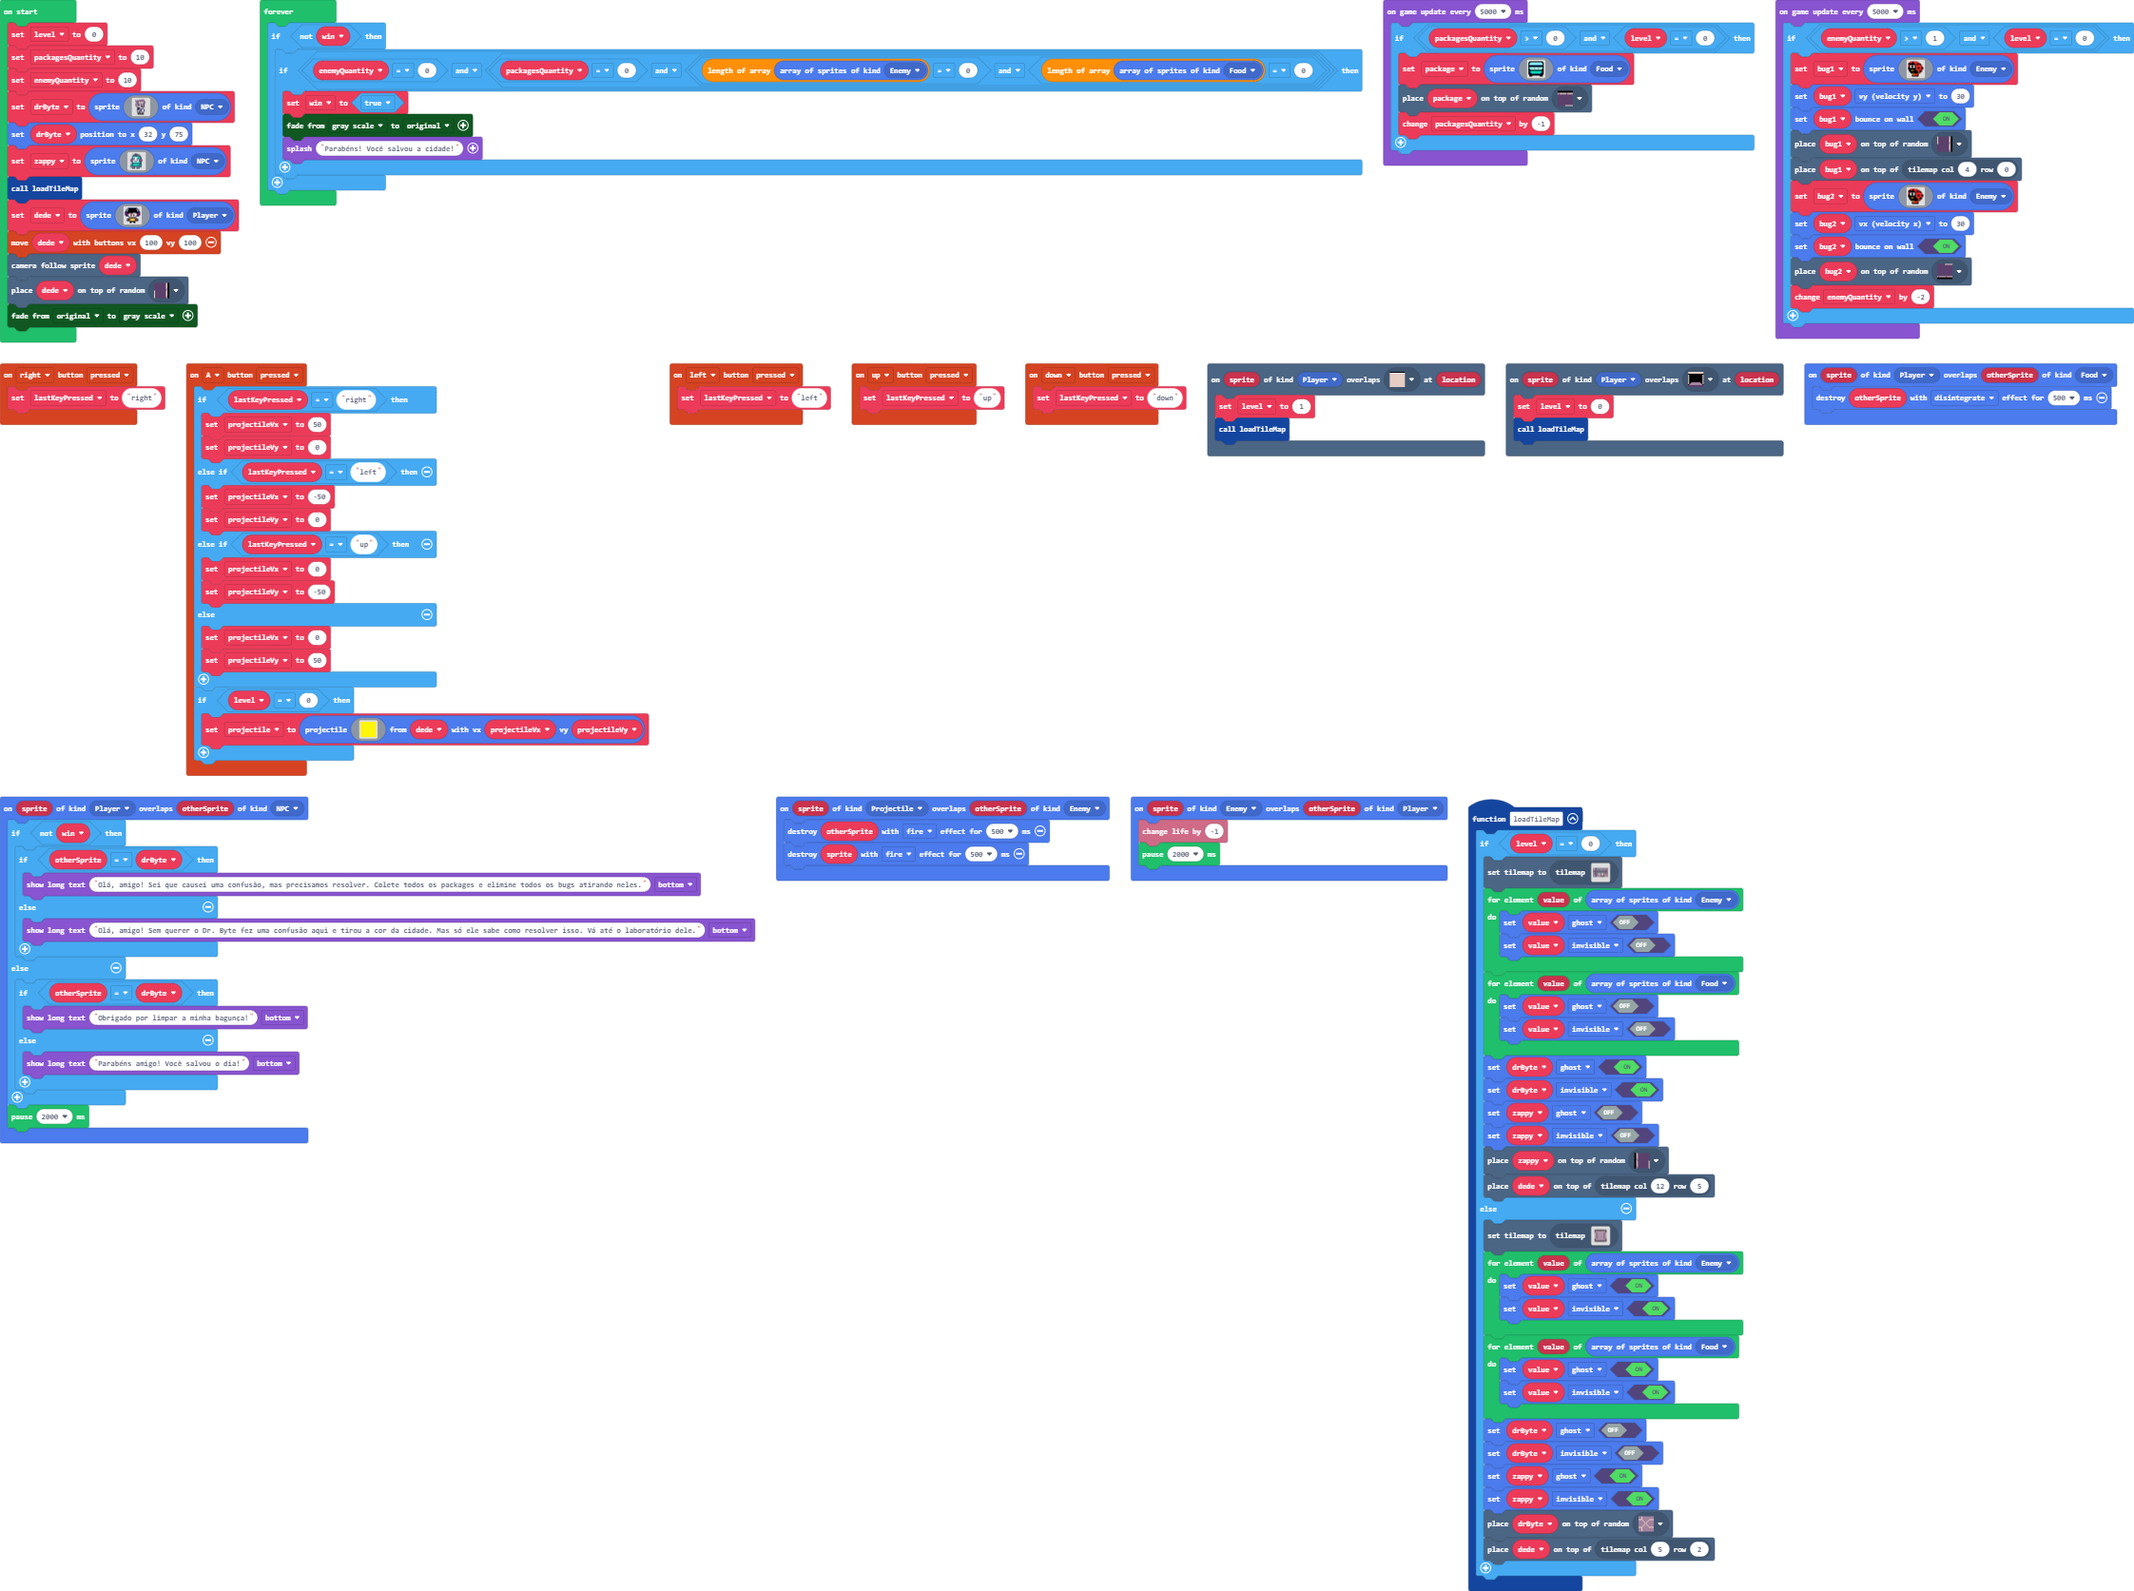
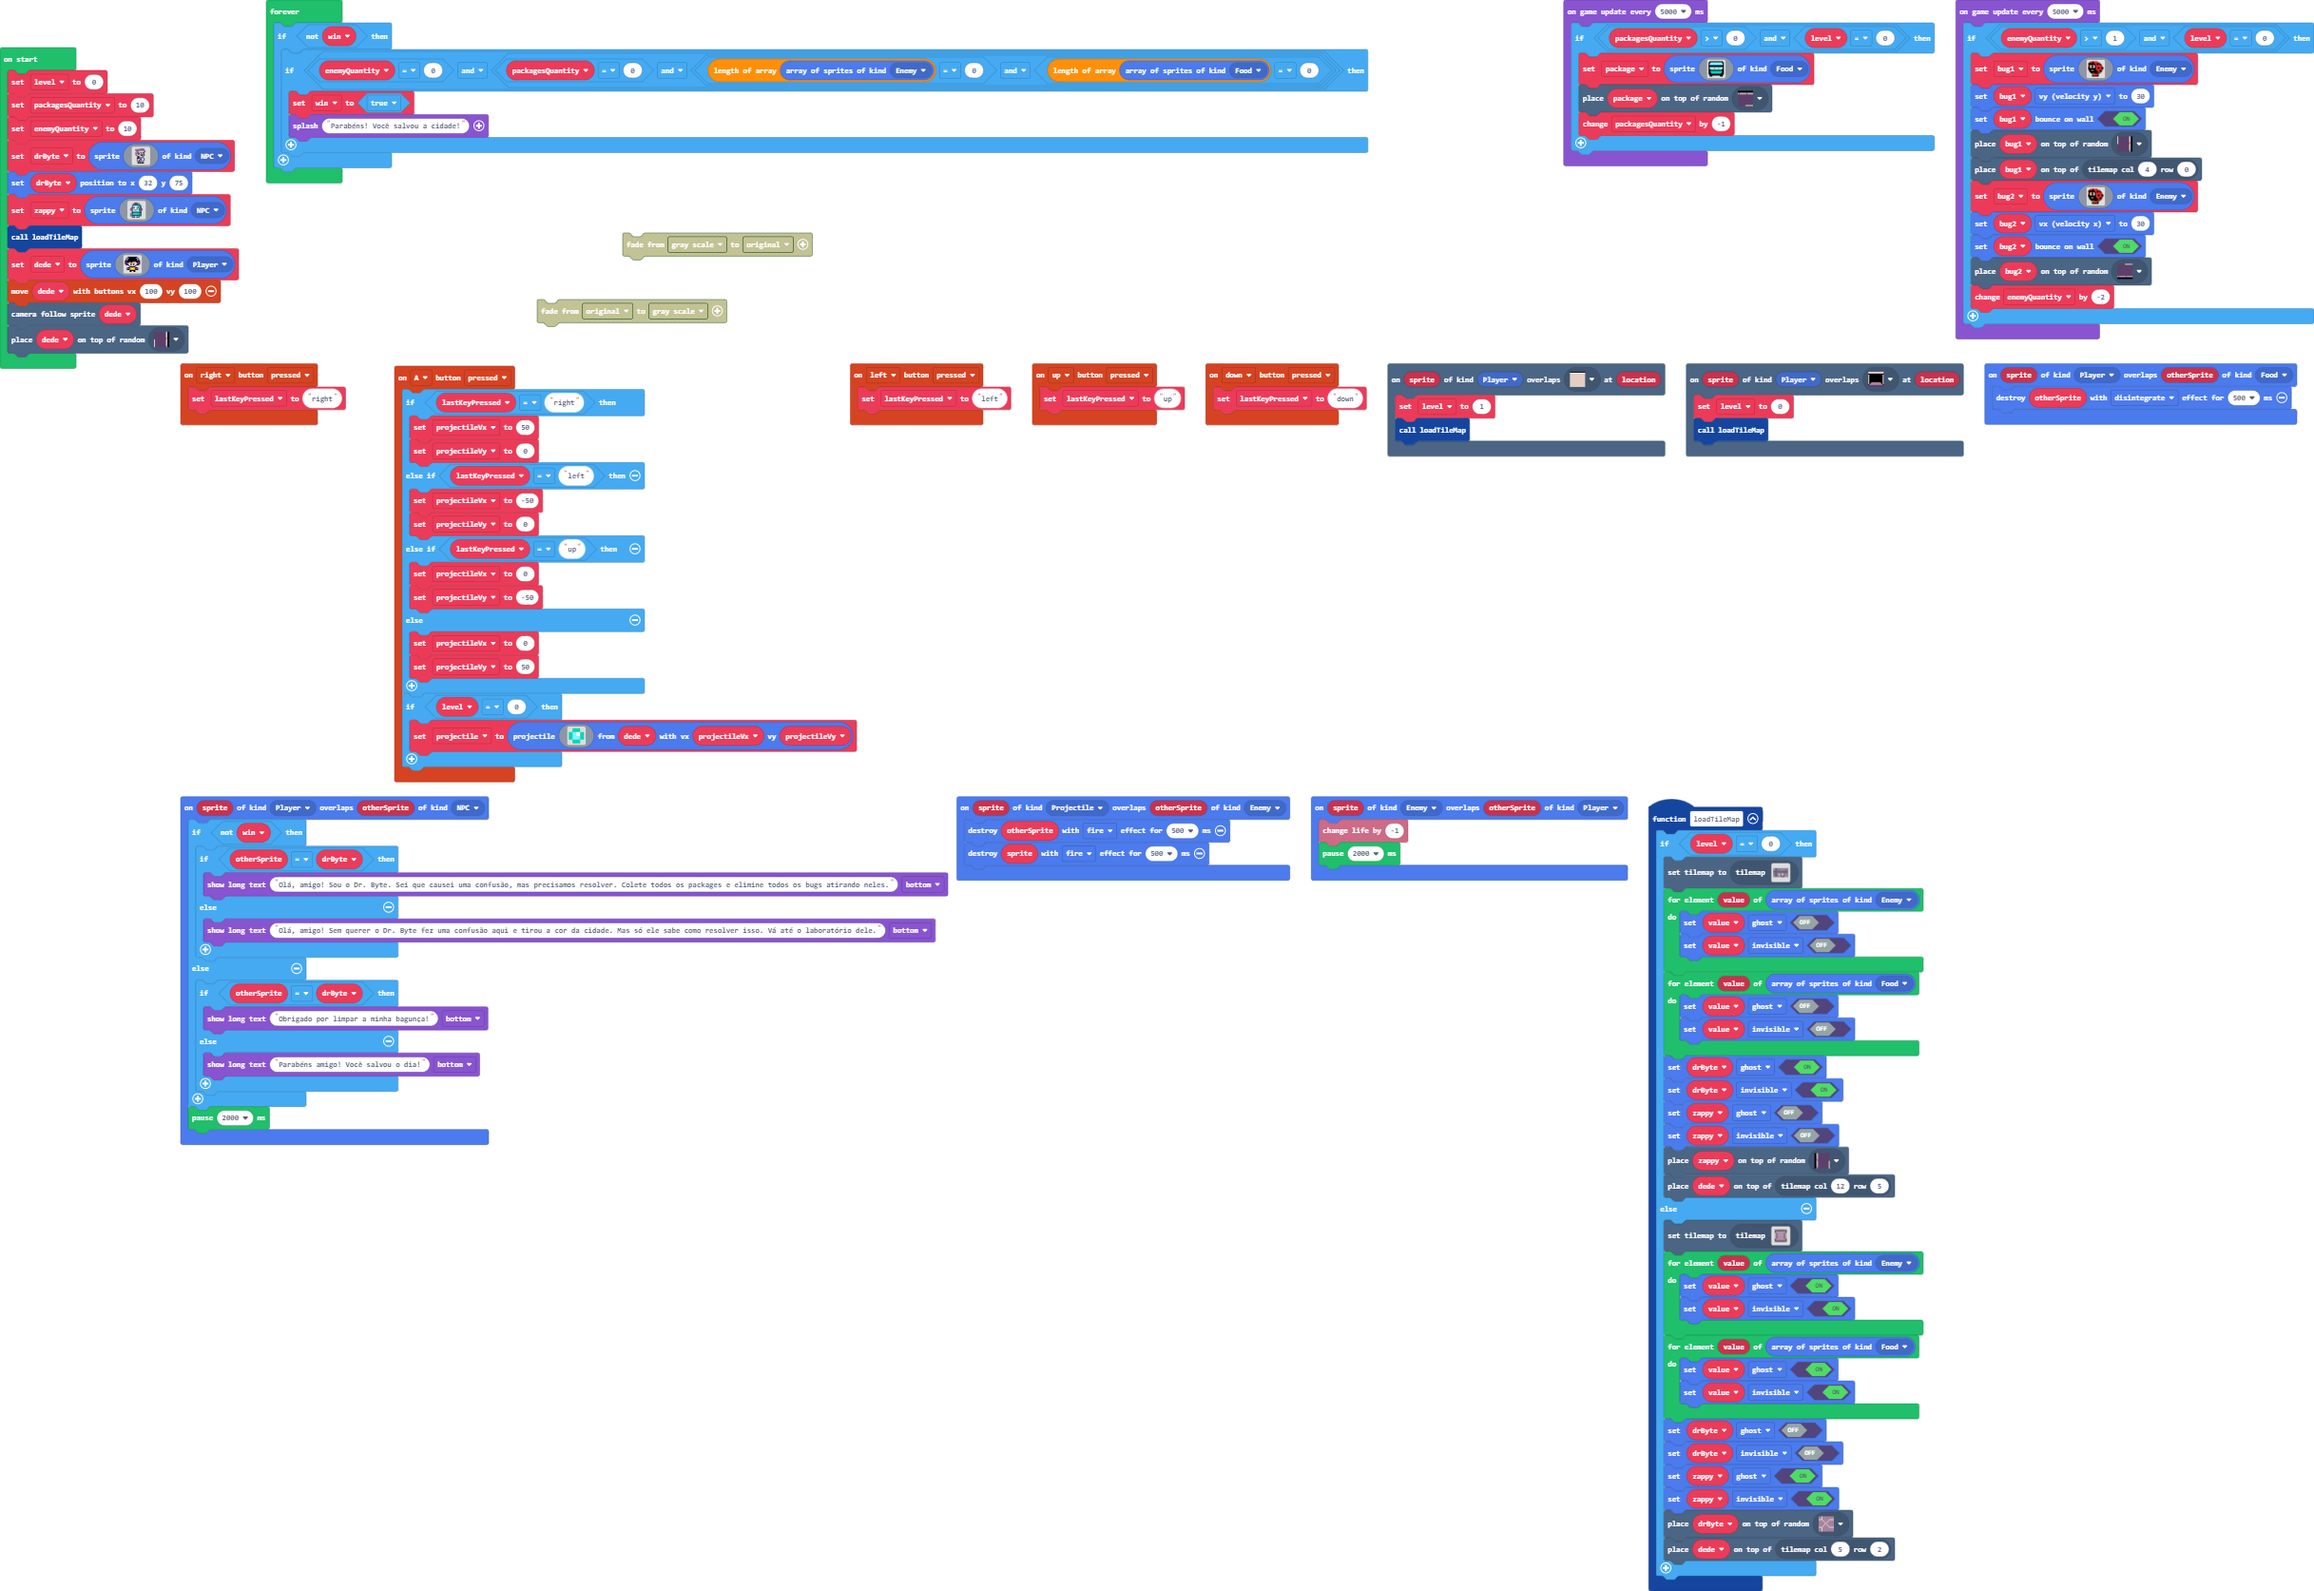
Update main.blocks, main.ts, images.g.jres, images.g.ts, tilemap.g.jres, tilemap.g.ts

Changed region(s): [[0.0, 0.0, 0.9982, 1.0]]

diff --git a/tilemap.g.ts b/tilemap.g.ts
@@ -166,6 +166,8 @@ namespace myTiles {
     export const tile83 = image.ofBuffer(hex``);
     //% fixedInstance jres blockIdentity=images._tile
     export const tile79 = image.ofBuffer(hex``);
+    //% fixedInstance jres blockIdentity=images._tile
+    export const tile81 = image.ofBuffer(hex``);
 
     helpers._registerFactory("tilemap", function(name: string) {
         switch(helpers.stringTrim(name)) {
@@ -214,6 +216,44 @@ namespace myTiles {
 2 2 2 . . 2 2 2 2 2 2 2 2 2 2 2 2 2 2 2 
 2 2 2 . . 2 2 2 2 2 2 2 2 2 2 2 2 2 2 2 
 `, [myTiles.transparency16,myTiles.tile1,myTiles.tile3,myTiles.tile4,myTiles.tile5,myTiles.tile6,myTiles.tile7,myTiles.tile8,myTiles.tile9,myTiles.tile10,myTiles.tile22,myTiles.tile23,myTiles.tile24,myTiles.tile25,myTiles.tile27,myTiles.tile28,myTiles.tile21,myTiles.tile26,myTiles.tile29,myTiles.tile32,myTiles.tile33,myTiles.tile34,myTiles.tile35,myTiles.tile36,myTiles.tile38,myTiles.tile39,myTiles.tile40,myTiles.tile41,myTiles.tile42,myTiles.tile43,myTiles.tile44,myTiles.tile45,myTiles.tile46,myTiles.tile47,myTiles.tile48,myTiles.tile2,myTiles.tile18,myTiles.tile30,myTiles.tile49,myTiles.tile50,myTiles.tile52,myTiles.tile53,myTiles.tile54,myTiles.tile55,myTiles.tile56,myTiles.tile57,myTiles.tile58,myTiles.tile59,myTiles.tile60,myTiles.tile61,myTiles.tile62,myTiles.tile31,myTiles.tile37,myTiles.tile63,myTiles.tile64,myTiles.tile65,myTiles.tile66,myTiles.tile67,myTiles.tile68], TileScale.Sixteen);
+            case "level4":
+            case "level4":return tiles.createTilemap(hex`1000100000000000000000000000000000000000000000000000000000000000000000000000000000000000000000000000000000000000000000000000000000000000000000000000000000000000000000000000000000000000000000000000000000000000000000000000000000000000000000000000000000000000000000000000000000000000000000000000000000000000000000000000000000000000000000000000000000000000000000000000000000000000000000000000000000000000000000000000000000000000000000000000000000000000000000000000000000000000000000000000000000000000000000000000000000000000`, img`
+. . . . . . . . . . . . . . . . 
+. . . . . . . . . . . . . . . . 
+. . . . . . . . . . . . . . . . 
+. . . . . . . . . . . . . . . . 
+. . . . . . . . . . . . . . . . 
+. . . . . . . . . . . . . . . . 
+. . . . . . . . . . . . . . . . 
+. . . . . . . . . . . . . . . . 
+. . . . . . . . . . . . . . . . 
+. . . . . . . . . . . . . . . . 
+. . . . . . . . . . . . . . . . 
+. . . . . . . . . . . . . . . . 
+. . . . . . . . . . . . . . . . 
+. . . . . . . . . . . . . . . . 
+. . . . . . . . . . . . . . . . 
+. . . . . . . . . . . . . . . . 
+`, [myTiles.transparency16], TileScale.Sixteen);
+            case "level5":
+            case "level5":return tiles.createTilemap(hex`1000100000000000000000000000000000000000000000000000000000000000000000000000000000000000000000000000000000000000000000000000000000000000000000000000000000000000000000000000000000000000000000000000000000000000000000000000000000000000000000000000000000000000000000000000000000000000000000000000000000000000000000000000000000000000000000000000000000000000000000000000000000000000000000000000000000000000000000000000000000000000000000000000000000000000000000000000000000000000000000000000000000000000000000000000000000000000`, img`
+. . . . . . . . . . . . . . . . 
+. . . . . . . . . . . . . . . . 
+. . . . . . . . . . . . . . . . 
+. . . . . . . . . . . . . . . . 
+. . . . . . . . . . . . . . . . 
+. . . . . . . . . . . . . . . . 
+. . . . . . . . . . . . . . . . 
+. . . . . . . . . . . . . . . . 
+. . . . . . . . . . . . . . . . 
+. . . . . . . . . . . . . . . . 
+. . . . . . . . . . . . . . . . 
+. . . . . . . . . . . . . . . . 
+. . . . . . . . . . . . . . . . 
+. . . . . . . . . . . . . . . . 
+. . . . . . . . . . . . . . . . 
+. . . . . . . . . . . . . . . . 
+`, [myTiles.transparency16], TileScale.Sixteen);
         }
         return null;
     })
@@ -385,6 +425,8 @@ namespace myTiles {
             case "tile83":return tile83;
             case "playerInitialPosition":
             case "tile79":return tile79;
+            case "myTile77":
+            case "tile81":return tile81;
         }
         return null;
     })

diff --git a/main.ts b/main.ts
@@ -11,7 +11,7 @@ controller.up.onEvent(ControllerButtonEvent.Pressed, function () {
 sprites.onOverlap(SpriteKind.Player, SpriteKind.NPC, function (sprite, otherSprite) {
     if (!(win)) {
         if (otherSprite == drByte) {
-            game.showLongText("Olá, amigo! Sei que causei uma confusão, mas precisamos resolver. Colete todos os packages e elimine todos os bugs atirando neles.", DialogLayout.Bottom)
+            game.showLongText("Olá, amigo! Sou o Dr. Byte. Sei que causei uma confusão, mas precisamos resolver. Colete todos os packages e elimine todos os bugs atirando neles.", DialogLayout.Bottom)
         } else {
             game.showLongText("Olá, amigo! Sem querer o Dr. Byte fez uma confusão aqui e tirou a cor da cidade. Mas só ele sabe como resolver isso. Vá até o laboratório dele.", DialogLayout.Bottom)
         }
@@ -124,7 +124,6 @@ dede = sprites.create(assets.image`myImage2`, SpriteKind.Player)
 controller.moveSprite(dede, 100, 100)
 scene.cameraFollowSprite(dede)
 tiles.placeOnRandomTile(dede, assets.tile`myTile66`)
-color.startFade(color.originalPalette, color.GrayScale)
 game.onUpdateInterval(5000, function () {
     if (packagesQuantity > 0 && level == 0) {
         _package = sprites.create(assets.image`myImage4`, SpriteKind.Food)
@@ -150,7 +149,6 @@ forever(function () {
     if (!(win)) {
         if (enemyQuantity == 0 && (packagesQuantity == 0 && (sprites.allOfKind(SpriteKind.Enemy).length == 0 && sprites.allOfKind(SpriteKind.Food).length == 0))) {
             win = true
-            color.startFade(color.GrayScale, color.originalPalette)
             game.splash("Parabéns! Você salvou a cidade!")
         }
     }

diff --git a/images.g.ts b/images.g.ts
@@ -351,10 +351,10 @@ bbbbbbbccccbbbbbbfdcccccccccccccccccccccccccccccccccccccccccccccddcccccccccccbbf
 `;
             case "image8":
             case "laser":return img`
-5 5 5 5 
-5 5 5 5 
-5 5 5 5 
-5 5 5 5 
+. 6 6 . 
+6 9 1 6 
+6 9 9 6 
+. 6 6 . 
 `;
         }
         return null;
